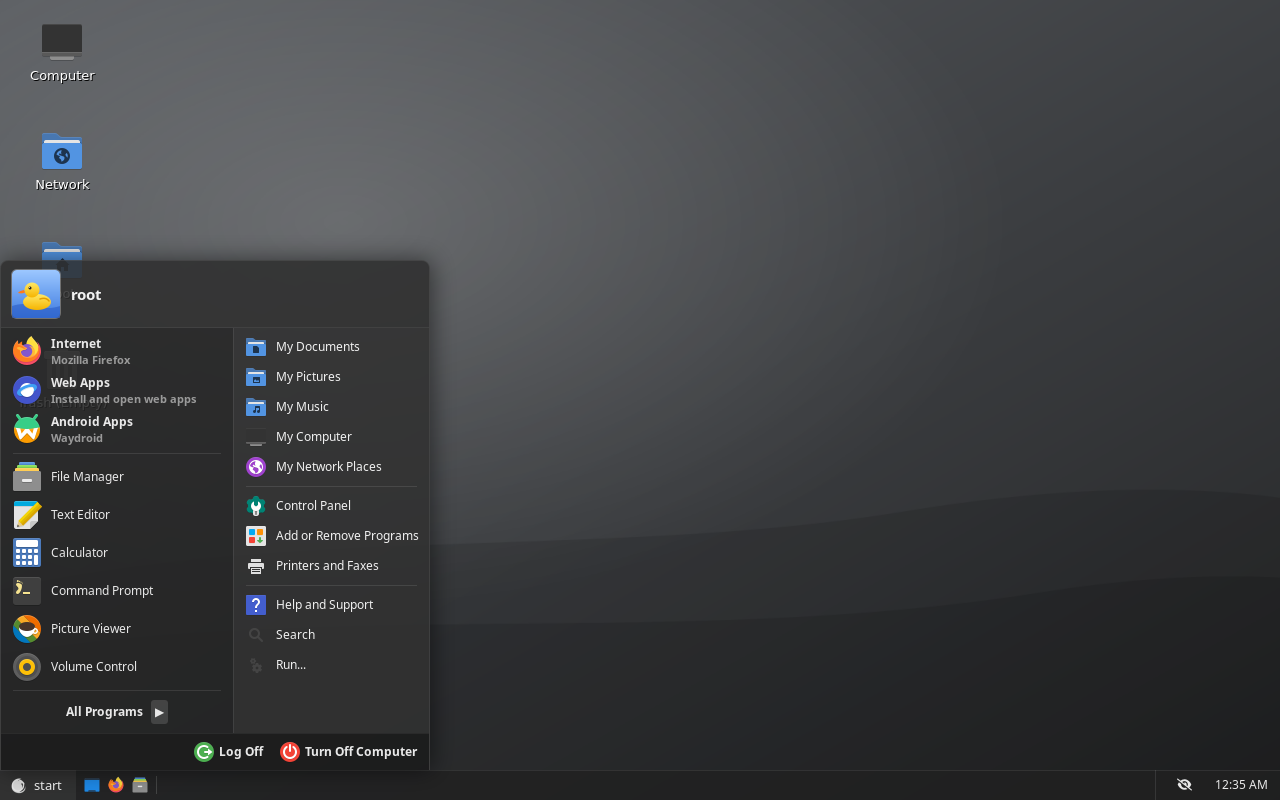
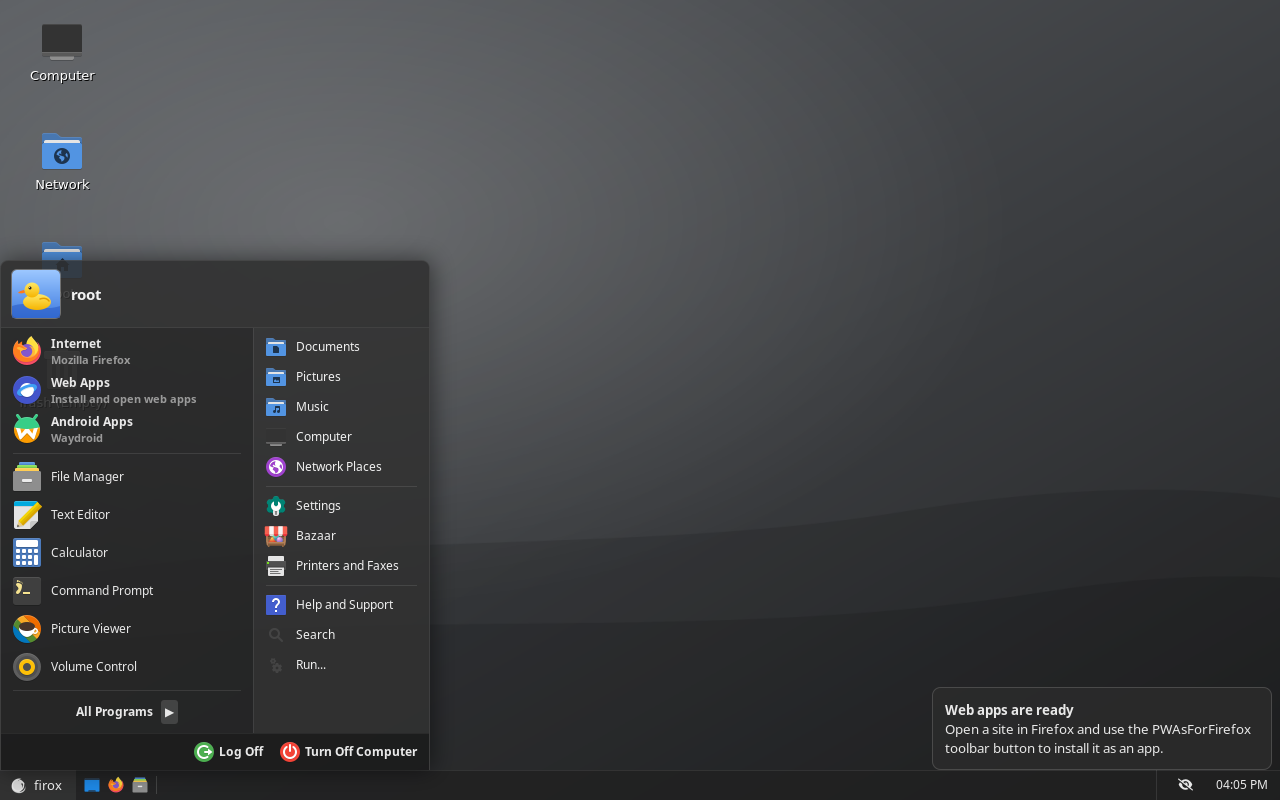
Start menu: drop "My", "Settings" and "Bazaar" entries
- Documents, Pictures, Music, Computer and Network Places lose the "My"
  (also in the desktop right-click menu, Settings sidebar, Help, docs).
- "Control Panel" is now "Settings": Start menu entry, window title and
  heading, and the launcher (GenericName=Control Panel and a keyword so
  searching for it still works).
- "Add or Remove Programs" is now "Bazaar", in the Start menu and as a
  Settings applet. It uses Bazaar's own icon from its Flatpak once it's
  installed (refreshed each time the menu opens), and a generic store
  icon until then.
- Printers and Faxes uses the colour system-config-printer icon; the
  plain "printer" icon resolved to a white tray icon that was nearly
  invisible on the Classic menu.

Claude-Session: https://claude.ai/code/session_015PQ61XxK8DufFAzhJgU6J7

diff --git a/system_files/usr/share/firox/help/index.html b/system_files/usr/share/firox/help/index.html
@@ -40,8 +40,8 @@
 </nav>
 <article>
 <h2 id="start">The Start menu</h2>
-<p>Click the <b>firox</b> button (or tap the <kbd>Super</kbd> key) to open the Start menu. The left side has your pinned programs and the ones you use most. The right side opens your folders, the Control Panel and system tools. <b>All Programs</b> lists everything installed, grouped into folders; you can also just start typing to search.</p>
-<p>To change the picture at the top of the Start menu, click it (or open <b>Control Panel &rarr; User Accounts</b>) and pick one of the built-in pictures or <b>Browse for more pictures&hellip;</b> to use your own photo.</p>
+<p>Click the <b>firox</b> button (or tap the <kbd>Super</kbd> key) to open the Start menu. The left side has your pinned programs and the ones you use most. The right side opens your folders, Settings, the Bazaar app store and system tools. <b>All Programs</b> lists everything installed, grouped into folders; you can also just start typing to search.</p>
+<p>To change the picture at the top of the Start menu, click it (or open <b>Settings &rarr; User Accounts</b>) and pick one of the built-in pictures or <b>Browse for more pictures&hellip;</b> to use your own photo.</p>
 
 <h2 id="webapps">Web apps</h2>
 <p>Firox Linux turns websites into apps with <b>PWAsForFirefox</b>. Each web app gets its own window, taskbar button and Start menu entry, and runs in its own Firefox profile.</p>
@@ -67,8 +67,8 @@
 <p>If Secure Boot is turned on, run <code>ujust enroll-secure-boot-key</code> before restarting, then choose <b>Enroll MOK</b> on the blue screen at the next boot and enter <code>universalblue</code>.</p>
 
 <h2 id="sound">No sound?</h2>
-<p>First check <b>Control Panel &rarr; Sounds and Audio Devices</b>: make sure the right output is selected and nothing is muted.</p>
-<p>Some PCs with <b>Realtek</b> onboard audio stay silent or crackle on Linux. <b>Control Panel &rarr; Sound Troubleshooter</b> runs <a href="https://github.com/hello2himel/linux-audio-fix">linux-audio-fix</a>, which detects your chip, shows what it will change and asks before doing anything. It turns off Auto-Mute, sends the chip's startup commands, and sets them to be re-applied at every boot. It saves a backup first.</p>
+<p>First check <b>Settings &rarr; Sounds and Audio Devices</b>: make sure the right output is selected and nothing is muted.</p>
+<p>Some PCs with <b>Realtek</b> onboard audio stay silent or crackle on Linux. <b>Settings &rarr; Sound Troubleshooter</b> runs <a href="https://github.com/hello2himel/linux-audio-fix">linux-audio-fix</a>, which detects your chip, shows what it will change and asks before doing anything. It turns off Auto-Mute, sends the chip's startup commands, and sets them to be re-applied at every boot. It saves a backup first.</p>
 <table>
   <tr><td><code>ujust fix-realtek-audio</code></td><td>Guided fix</td></tr>
   <tr><td><code>ujust fix-realtek-audio --dry-run</code></td><td>Preview only, changes nothing</td></tr>
@@ -79,15 +79,15 @@
 <p>It only applies to Realtek HD-Audio chips. USB audio (such as ALC4080 on some motherboards) and newer Intel laptops that use SOF firmware need different fixes; the tool tells you if that's your case.</p>
 
 <h2 id="software">Installing software</h2>
-<p>Firox Linux is an <em>image-based</em> system: the OS itself is read-only and updates as one piece. Install apps as web apps, Android apps or <b>Flatpaks</b> (<b>Control Panel &rarr; Add or Remove Programs</b>). For command-line tools, use a <code>toolbox</code> or <code>distrobox</code> container.</p>
+<p>Firox Linux is an <em>image-based</em> system: the OS itself is read-only and updates as one piece. Install apps as web apps, Android apps or <b>Flatpaks</b> (<b>Start &rarr; Bazaar</b>). For command-line tools, use a <code>toolbox</code> or <code>distrobox</code> container.</p>
 
 <h2 id="updates">Updates</h2>
-<p>The system updates itself in the background, and the new version takes effect when you restart. To update now, open <b>Control Panel &rarr; System Update</b> or run <code>ujust update</code>.</p>
+<p>The system updates itself in the background, and the new version takes effect when you restart. To update now, open <b>Settings &rarr; System Update</b> or run <code>ujust update</code>.</p>
 
 <h2 id="keys">Keyboard shortcuts</h2>
 <table>
   <tr><td><kbd>Super</kbd></td><td>Start menu</td></tr>
-  <tr><td><kbd>Super</kbd>+<kbd>E</kbd></td><td>My Computer</td></tr>
+  <tr><td><kbd>Super</kbd>+<kbd>E</kbd></td><td>Computer</td></tr>
   <tr><td><kbd>Super</kbd>+<kbd>R</kbd></td><td>Run...</td></tr>
   <tr><td><kbd>Super</kbd>+<kbd>D</kbd></td><td>Show desktop</td></tr>
   <tr><td><kbd>Super</kbd>+<kbd>L</kbd></td><td>Lock computer</td></tr>
@@ -95,11 +95,11 @@
   <tr><td><kbd>Alt</kbd>+<kbd>Tab</kbd></td><td>Switch windows</td></tr>
   <tr><td><kbd>Alt</kbd>+<kbd>F4</kbd></td><td>Close window</td></tr>
   <tr><td><kbd>Ctrl</kbd>+<kbd>Alt</kbd>+<kbd>Del</kbd></td><td>Task Manager</td></tr>
-  <tr><td><kbd>Print Screen</kbd></td><td>Screenshot to My Pictures (<kbd>Shift</kbd> to select an area)</td></tr>
+  <tr><td><kbd>Print Screen</kbd></td><td>Screenshot to Pictures (<kbd>Shift</kbd> to select an area)</td></tr>
 </table>
 
 <h2 id="display">Screen resolution and monitors</h2>
-<p>Open <b>Control Panel &rarr; Display</b>, change resolution, refresh rate, scale or arrangement, and close the window. Your layout is saved when you close it and comes back at every login. Each combination of monitors (for example, laptop alone vs. docked) remembers its own layout. If you write your own <code>~/.config/kanshi/config</code>, Firox leaves it alone. If a layout doesn't come back, the details are in <code>~/.local/state/firox/displays.log</code>.</p>
+<p>Open <b>Settings &rarr; Display</b>, change resolution, refresh rate, scale or arrangement, and close the window. Your layout is saved when you close it and comes back at every login. Each combination of monitors (for example, laptop alone vs. docked) remembers its own layout. If you write your own <code>~/.config/kanshi/config</code>, Firox leaves it alone. If a layout doesn't come back, the details are in <code>~/.local/state/firox/displays.log</code>.</p>
 
 <h2 id="customize">Customizing</h2>
 <p>The desktop is <b>labwc</b> (window manager), <b>waybar</b> (taskbar) and <b>pcmanfm-qt</b> (desktop icons and wallpaper). Run <code>ujust customize-desktop</code> to copy the defaults into <code>~/.config</code>, where you can edit them. <code>ujust reset-desktop</code> puts the defaults back.</p>

diff --git a/README.md b/README.md
@@ -2,7 +2,7 @@
 
 A desktop Linux built on [Universal Blue](https://universal-blue.org/) (Fedora Atomic): image-based, self-updating, with a familiar classic desktop layout. It includes:
 
-- **A custom Wayland desktop laid out like the classic XP desktop**: taskbar with a **start** button, a two-column Start menu, Quick Launch, notification area, desktop icons and a Control Panel. It comes in two looks: **Modern** (grey and translucent, with dark apps; the default) and **Classic** (blue "Luna"-style with a green start button).
+- **A custom Wayland desktop laid out like the classic XP desktop**: taskbar with a **firox** button, a two-column Start menu, Quick Launch, notification area, desktop icons and Settings (an XP-style Control Panel). It comes in two looks: **Modern** (grey and translucent, with dark apps; the default) and **Classic** (blue "Luna"-style with a green start button).
 - **Web apps as first-class apps** with Firefox + [PWAsForFirefox](https://pwasforfirefox.filips.si/) (`firefoxpwa`): install any site as a desktop app with its own window, taskbar button and Start menu entry.
 - **Android apps** with [Waydroid](https://waydro.id/), integrated into the Start menu.
 
@@ -34,7 +34,7 @@ The login screen matches the default look:
 
 Want Modern with light apps, or Classic with dark ones? The Appearance window also has a **Programs** setting: **Match the look** (the default), **Light** or **Dark**. Light or Dark keeps apps that way whichever look you choose. From a terminal: `ujust dark-mode on|off|auto` (or `firox-theme apps dark|light|auto`).
 
-Switch looks in **Control Panel → Appearance**, or with `ujust theme modern` / `ujust theme classic` (`firox-theme set NAME` does the same). The change applies to the running desktop immediately and is saved per user. The wallpaper switches too, unless you've picked your own. The default for users who haven't picked one is set in `/etc/firox/theme` (`modern`); change it to `classic` to make the XP look the default. On their first login, users get the default theme's wallpaper and light or dark app style.
+Switch looks in **Settings → Appearance**, or with `ujust theme modern` / `ujust theme classic` (`firox-theme set NAME` does the same). The change applies to the running desktop immediately and is saved per user. The wallpaper switches too, unless you've picked your own. The default for users who haven't picked one is set in `/etc/firox/theme` (`modern`); change it to `classic` to make the XP look the default. On their first login, users get the default theme's wallpaper and light or dark app style.
 
 <sub>Screenshots are from the built image running headless (`labwc` + `grim`).</sub>
 
@@ -44,21 +44,21 @@ Switch looks in **Control Panel → Appearance**, or with `ujust theme modern` /
 |---|---|
 | Window manager | [labwc](https://labwc.github.io/) (wlroots, Openbox-style) with the `Firox-Luna` theme: blue gradient titlebars, rounded minimise/maximise/close buttons |
 | Taskbar | [waybar](https://github.com/Alexays/Waybar): start button, Quick Launch, window buttons, tray, volume, network, battery, clock |
-| Start menu | `firox-startmenu`: Python + GTK3 + gtk-layer-shell. A **firox** button, user picture header, pinned **Internet** / **Web Apps** / **Android Apps**, most-used programs, **All Programs** (grouped, with Web Apps and Android Apps folders, type to search), My Documents / Pictures / Music / Computer, Control Panel, Help, Search, Run, **Log Off** and **Turn Off Computer** dialogs |
-| Desktop | `pcmanfm-qt --desktop`: wallpaper plus My Computer / Home / Recycle Bin / Network icons |
-| Control Panel | `firox-control-panel`: Display, Sound, Network, Bluetooth, Printers, Disks, Web Apps, Android, Add or Remove Programs, Date and Time, **User Accounts** (change your account picture from a built-in set or any image, or your password; also opened by clicking the picture in the Start menu), System... |
+| Start menu | `firox-startmenu`: Python + GTK3 + gtk-layer-shell. A **firox** button, user picture header, pinned **Internet** / **Web Apps** / **Android Apps**, most-used programs, **All Programs** (grouped, with Web Apps and Android Apps folders, type to search), Documents / Pictures / Music / Computer / Network Places, Settings, **Bazaar** (app store), Help, Search, Run, **Log Off** and **Turn Off Computer** dialogs |
+| Desktop | `pcmanfm-qt --desktop`: wallpaper plus Computer / Home / Recycle Bin / Network icons |
+| Settings | `firox-control-panel` (the Control Panel): Display, Sound, Network, Bluetooth, Printers, Disks, Web Apps, Android, Bazaar, Date and Time, **User Accounts** (change your account picture from a built-in set or any image, or your password; also opened by clicking the picture in the Start menu), System... |
 | Web Apps | `firox-webapps`: list, open and remove installed PWAs |
 | Login | greetd + gtkgreet (in cage) via `firox-greeter`, styled to match the default look in `/etc/firox/theme`: grey card on the Slate wallpaper (Modern) or the XP-style blue welcome screen (Classic) |
-| Displays | **Control Panel → Display** (`firox-display`) opens wdisplays and saves the layout when you close it (`firox-displays save`: a kanshi profile per set of connected monitors; resolutions the screen doesn't advertise are saved as custom modes). At login kanshi applies it and `firox-displays restore` double-checks and re-applies anything that didn't take. Log: `~/.local/state/firox/displays.log` |
-| Power saving | **Control Panel → Power Options** (`firox-power`): turn off the monitor, lock the screen and put the computer to sleep after a set idle time, with separate **Plugged in** and **On battery** times on laptops. Defaults: lock after 10 min; monitor off after 15 min (5 on battery); sleep never (30 min on battery). Videos and full-screen apps keep the screen on. System defaults: `/etc/firox/power.conf` |
-| Screen savers | **Control Panel → Screen Saver** (`firox-screensaver`): Aquarium (asciiquarium), Matrix (cmatrix), Bonsai (cbonsai), Bouncing firox, Starfield or Blank, full screen after a set idle time (off by default), with Preview. [Add your own](#adding-screen-savers) |
+| Displays | **Settings → Display** (`firox-display`) opens wdisplays and saves the layout when you close it (`firox-displays save`: a kanshi profile per set of connected monitors; resolutions the screen doesn't advertise are saved as custom modes). At login kanshi applies it and `firox-displays restore` double-checks and re-applies anything that didn't take. Log: `~/.local/state/firox/displays.log` |
+| Power saving | **Settings → Power Options** (`firox-power`): turn off the monitor, lock the screen and put the computer to sleep after a set idle time, with separate **Plugged in** and **On battery** times on laptops. Defaults: lock after 10 min; monitor off after 15 min (5 on battery); sleep never (30 min on battery). Videos and full-screen apps keep the screen on. System defaults: `/etc/firox/power.conf` |
+| Screen savers | **Settings → Screen Saver** (`firox-screensaver`): Aquarium (asciiquarium), Matrix (cmatrix), Bonsai (cbonsai), Bouncing firox, Starfield or Blank, full screen after a set idle time (off by default), with Preview. [Add your own](#adding-screen-savers) |
 | Extras | mako "balloon" notifications, fuzzel Run dialog, swaylock, foot "Command Prompt", htop "Task Manager" |
 
 ![Power Options on a laptop](docs/screenshots/power-options.png)
 
 ### Keyboard shortcuts
 
-`Super` Start menu · `Super+E` My Computer · `Super+R` Run · `Super+D` show desktop · `Super+L` lock · `Super+←/→` snap · `Alt+Tab` switch windows · `Ctrl+Alt+Del` Task Manager · `PrtSc` screenshot
+`Super` Start menu · `Super+E` Computer · `Super+R` Run · `Super+D` show desktop · `Super+L` lock · `Super+←/→` snap · `Alt+Tab` switch windows · `Ctrl+Alt+Del` Task Manager · `PrtSc` screenshot
 
 ## Repository layout
 
@@ -138,7 +138,7 @@ From then on it updates normally (`ujust update`). On your first login afterward
 
 - **Web apps:** the Firefox runtime for web apps downloads in the background on first login. Open a site in Firefox, click the PWAsForFirefox toolbar button and choose **Install**.
 - **Android:** open **Start → Android Apps**. The first time, it runs `ujust setup-waydroid` to download Android. Use `ujust setup-waydroid gapps` for the Play Store.
-- **More apps:** **Control Panel → Add or Remove Programs** installs the Bazaar Flatpak store.
+- **More apps:** **Start → Bazaar** opens the Bazaar Flatpak app store (the first time, it offers to install it).
 
 ### `ujust` recipes
 
@@ -147,7 +147,7 @@ From then on it updates normally (`ujust update`). On your first login afterward
 | `ujust setup-waydroid [vanilla\|gapps]` | Download and initialise Android |
 | `ujust waydroid-google-id` | Print the Android ID to register a GAPPS install |
 | `ujust reset-waydroid` | Delete Android and its data |
-| `ujust fix-realtek-audio` | Fix silent/crackling Realtek onboard audio ([linux-audio-fix](https://github.com/hello2himel/linux-audio-fix), pinned + checksum-verified; also in Control Panel → Sound Troubleshooter) |
+| `ujust fix-realtek-audio` | Fix silent/crackling Realtek onboard audio ([linux-audio-fix](https://github.com/hello2himel/linux-audio-fix), pinned + checksum-verified; also in Settings → Sound Troubleshooter) |
 | `ujust install-webapp-runtime` | (Re)install the firefoxpwa Firefox runtime |
 | `ujust install-app-store` | Install the Bazaar Flatpak store |
 | `ujust customize-desktop` | Copy labwc/waybar defaults into `~/.config` to edit |
@@ -171,11 +171,11 @@ NAME=Pipes
 COMMAND=pipes.sh
 ```
 
-It shows up in **Control Panel → Screen Saver** straight away. It runs full screen in a black terminal and stops when you move the mouse or press a key. For a program that opens its own window instead, add `TERMINAL=false`. `COMMAND` can be a script you drop in `~/.local/bin` (handy for single-file savers such as `pipes.sh`) or any other program on your `PATH`. The built-in ones live in `/usr/share/firox/screensavers/`. The default for new users is in `/etc/firox/screensaver` (`none`).
+It shows up in **Settings → Screen Saver** straight away. It runs full screen in a black terminal and stops when you move the mouse or press a key. For a program that opens its own window instead, add `TERMINAL=false`. `COMMAND` can be a script you drop in `~/.local/bin` (handy for single-file savers such as `pipes.sh`) or any other program on your `PATH`. The built-in ones live in `/usr/share/firox/screensavers/`. The default for new users is in `/etc/firox/screensaver` (`none`).
 
 ### Everything else
 
-Each look's styling lives in `/usr/share/firox/themes/{classic,modern}/` (taskbar CSS, Start menu CSS, notifications, Run dialog, lock screen), with window themes in `/usr/share/themes/Firox-{Luna,Modern}`. To add a third look, copy one of those folders and edit it; it shows up in Control Panel → Appearance automatically. System defaults live in `/etc/xdg/{labwc,waybar,mako,foot,fuzzel}`. Anything you put in the matching `~/.config/` folder overrides them. The Start menu's pinned and default apps are at the top of `system_files/usr/bin/firox-startmenu` (`PINNED`, `DEFAULT_MFU`). The menu also takes `--all-programs`, `--power` and `--log-off`, which you can bind to keys in `rc.xml`.
+Each look's styling lives in `/usr/share/firox/themes/{classic,modern}/` (taskbar CSS, Start menu CSS, notifications, Run dialog, lock screen), with window themes in `/usr/share/themes/Firox-{Luna,Modern}`. To add a third look, copy one of those folders and edit it; it shows up in Settings → Appearance automatically. System defaults live in `/etc/xdg/{labwc,waybar,mako,foot,fuzzel}`. Anything you put in the matching `~/.config/` folder overrides them. The Start menu's pinned and default apps are at the top of `system_files/usr/bin/firox-startmenu` (`PINNED`, `DEFAULT_MFU`). The menu also takes `--all-programs`, `--power` and `--log-off`, which you can bind to keys in `rc.xml`.
 
 ## Building and signing
 
@@ -186,4 +186,4 @@ GitHub Actions (`.github/workflows/build.yml`) builds and pushes `ghcr.io/<owner
 - Waydroid needs a GPU it supports for hardware acceleration (Intel/AMD are fine; on NVIDIA it runs with software rendering) and doesn't work on Secure Boot setups that block the binder module from loading.
 - The NVIDIA image only supports cards from the GTX 16 / RTX 20 series onwards (NVIDIA's open driver).
 - The PWAsForFirefox extension is installed by Firefox policy on first launch, so Firefox needs network access the first time.
-- The Start menu, Control Panel and Web Apps manager are new code and haven't been tested much on real hardware yet.
+- The Start menu, Settings and Web Apps manager are new code and haven't been tested much on real hardware yet.
